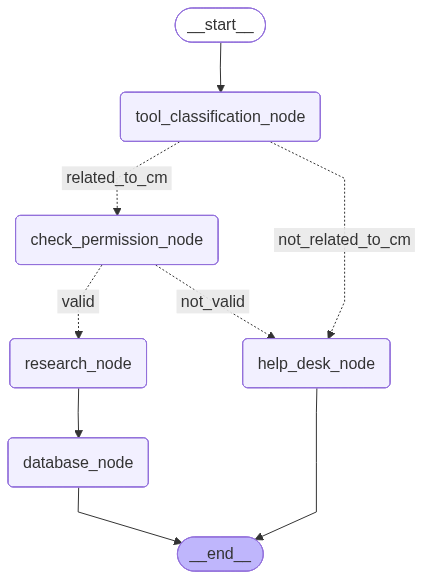
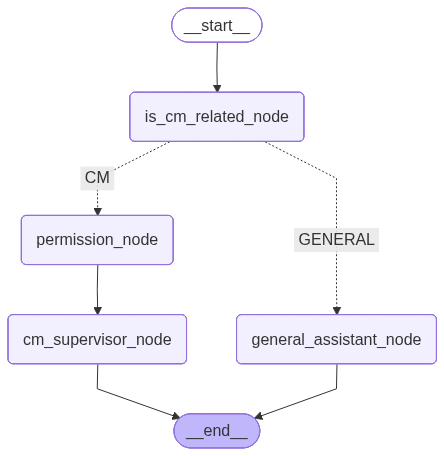
New workflow

Changed region(s): [[0.0, 0.0, 1.0, 1.0], [0.6454, 0.3991, 0.9835, 0.4298], [0.4303, 0.4912, 0.5839, 0.5526]]

diff --git a/workflow/chat_cm.py b/workflow/chat_cm.py
@@ -1,0 +1,131 @@
+from langchain_ollama import ChatOllama
+from langchain_core.messages import HumanMessage, SystemMessage, AIMessage, ChatMessage
+from langgraph.graph import StateGraph, START, END, MessagesState
+from langgraph.checkpoint.memory import MemorySaver
+
+from utils.is_valid_tool_permission import is_valid_tool_permission
+from utils.get_latest_question import get_latest_question
+from model.state_model import *
+# from agent_hub import RouterTeams, ConversationTeams, DatabaseTeams, ResearchTeams
+from agents.is_cm_related import CMRelated
+from agents.general_assistant import GeneralAssistant
+
+from typing import Dict, List, Optional
+import enum
+
+
+class PermissionLevel(enum.Enum):
+    Not_Allowed = 0
+    View_Only = 1
+    General = 2
+    Admin = 3
+
+class CMTools(enum.Enum):
+    RFI = 0
+    Submittal=  1
+    Inspection = 2
+
+class UserContext(BaseModel):
+    class Permission(BaseModel):
+        level: PermissionLevel
+        tool: str
+
+    user_id: int
+    company_id: int
+    project_id: int
+    permission_tools: Optional[List[Permission]]
+
+class MainState(MessagesState):
+    user: UserContext
+    question_type: str
+
+class ChatCM:
+    def __init__(self):
+        self._cm_related = None
+        self._general_assistant = None
+
+    @property
+    def cm_related_agent(self):
+        return self._cm_related
+    
+    @property
+    def general_assistant_agent(self):
+        return self._general_assistant
+    
+    @cm_related_agent.setter
+    def cm_related_agent(self, graph: CMRelated):
+        self._cm_related = graph.build()
+
+    @general_assistant_agent.setter
+    def general_assistant_agent(self, graph: GeneralAssistant):
+        self._general_assistant = graph.build()
+
+    def is_related_to_cm_agent(self, state: MainState):
+        question = get_latest_question(state)
+        res = self._cm_related.invoke({
+            "question": [HumanMessage(content=question)]
+        })
+        return {
+            "question_type": res["question_type"]
+        }
+        
+    
+    def general_agent(self, state: MainState):
+        res = self._general_assistant.invoke({
+            "messages": state["messages"]
+        })
+        return {
+            "messages": res["messages"]
+        }
+
+    def tool_permission(self, state: MainState):
+        if not state['user'].permission_tools:
+            res = is_valid_tool_permission(user_id=state["user"].user_id,
+                                           project_id=state['user'].project_id,
+                                           company_id=state['user'].company_id)
+
+            # Filter only RFI, Submittal, Inspection
+            tools = [tool.name for tool in CMTools]
+            state['user'].permission_tools = [
+                UserContext.Permission(level=PermissionLevel(tool[0]), tool=tool[1])
+                for tool in res if tool[1] in tools
+            ]
+        
+        return {"user": state['user']}
+    
+    def cm_supervisor_agent(self, state: MainState):
+        return {
+            "messages": AIMessage(content="Passing to supervisor...")
+        }
+
+    def build(self, checkpointer, save_graph=False):
+        g = StateGraph(MainState)
+        g.add_node("is_cm_related_node", self.is_related_to_cm_agent)
+        g.add_node("general_assistant_node", self.general_agent)
+        g.add_node("permission_node", self.tool_permission)
+        g.add_node("cm_supervisor_node", self.cm_supervisor_agent)
+
+        g.add_edge(START, "is_cm_related_node")
+        g.add_conditional_edges(
+            "is_cm_related_node",
+            lambda s: s['question_type'],
+            {"CM": "permission_node", "GENERAL": "general_assistant_node"}
+        )
+        g.add_edge("permission_node", "cm_supervisor_node")
+
+        self.agent = g.compile(checkpointer=checkpointer)
+
+        if save_graph:
+            self.save_graph()
+
+        return self.agent
+
+    def save_graph(self):
+        try:
+            png_bytes = self.agent.get_graph().draw_mermaid_png()
+            with open("chatcm_agentic_graph.png", "wb") as f:
+                f.write(png_bytes)
+            print("Saved graph diagram to graph.png")
+        except Exception as e:
+            print(f"Could not render graph diagram: {e}")
+
